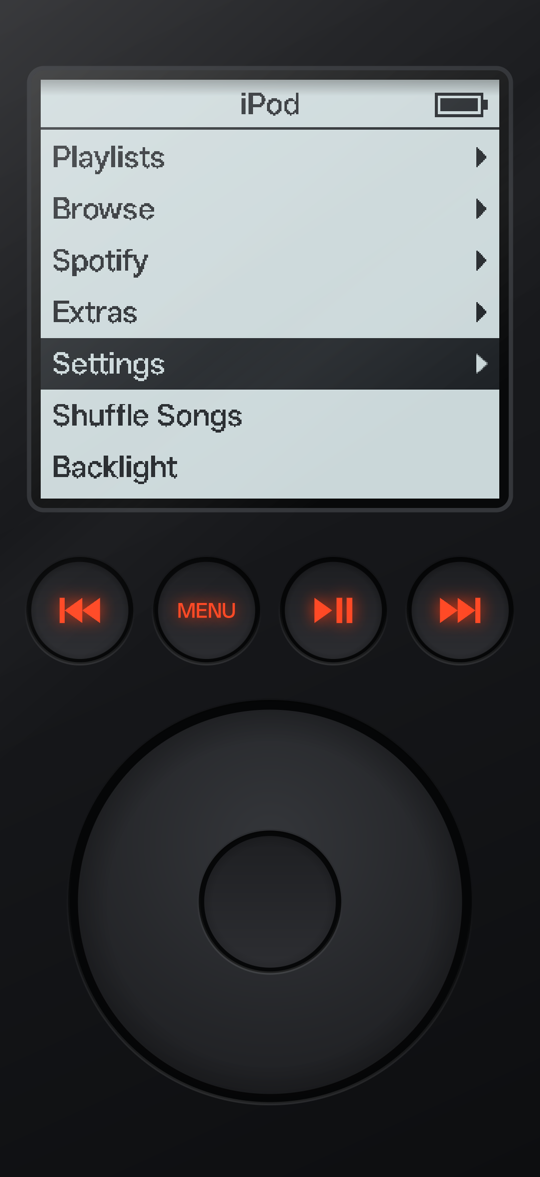
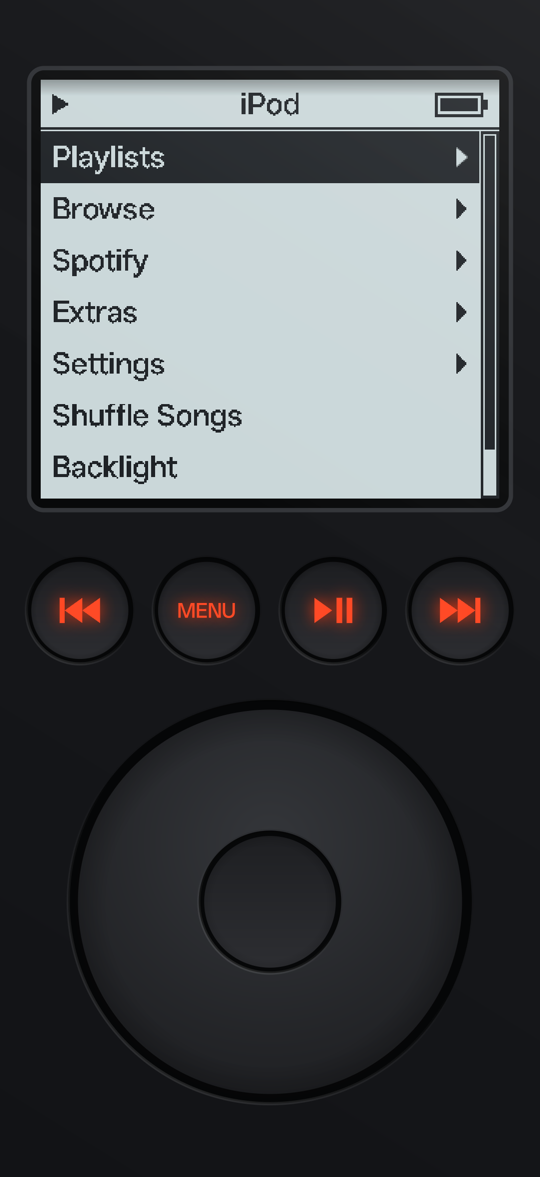
Update the README and screenshots for everything added since [skip ci]
Mentions playing on Sonos, Chromecast and Spotify Connect in the intro
and requirements, describes the light-following shading of the whole
face, fixes the Spotify section that still said music only plays on the
phone, and documents the libraries and build notes. New screenshots of
the main menu, Settings (now with Speakers) and the black finish with
its new lighting.

Changed region(s): [[0.0, 0.0, 0.9481, 0.4282]]

diff --git a/README.md b/README.md
@@ -3,7 +3,7 @@
 A music player for Android that looks and works like the **3rd generation iPod** from 2003.
 It has the grey-blue LCD with its pixel font, the four red-lit touch buttons and the touch wheel,
 under a clear acrylic layer. It plays the music on your phone and, if you like, your Spotify
-library.
+library, on the phone or on your Sonos speakers, Chromecasts and Spotify Connect devices.
 
 <p align="center">
   <img src="docs/screenshots/main-menu.png" width="220" alt="Main menu, white">
@@ -48,8 +48,13 @@ Every push to `main` builds a signed APK with GitHub Actions and publishes it as
 Every build is signed with the same key, so a new release installs over the old one and keeps
 your settings, playlists and Spotify sign-in.
 
-**Requirements:** Android 8.0 or later. The equalizer needs Android 9 or later. Spotify needs the
-Spotify app and Spotify Premium.
+**Requirements:**
+- Android 8.0 or later; the equalizer needs Android 9 or later.
+- Spotify needs the Spotify app and Spotify Premium.
+- Playing on Sonos or Chromecast needs the phone and speaker on the same Wi-Fi; Chromecast also
+  needs Google Play services.
+
+The APK is about 4 MB, mostly Google's Cast libraries.
 
 ---
 
@@ -63,8 +68,11 @@ The whole screen is the front of the iPod, drawn in code and scaled to fit any p
   wheel and the centre button are sunk into holes in it. Each hole's wall casts a soft shadow, and
   its polished edge catches the light. A faint gloss runs across the face.
 - **Light that follows the phone:** the light comes from the ceiling of the room, read from the
-  gravity sensor. Tilt the phone and the shadows and edge highlights swing round, and the gloss
-  slides like a reflection. Lay it flat and the light comes from straight above.
+  gravity sensor. Everything lit is brightest on the side facing it: the shadows and edge
+  highlights in the holes, the shading of the body, the gloss on the acrylic and the reflection on
+  the screen glass. Tilt the phone and they all swing round, with the gloss sliding the other way
+  like a reflection. Lay it flat and the light comes from straight above, so the face looks almost
+  even.
 - **Red-lit buttons:** the four touch buttons glow red while the backlight is on and turn grey
   when it's off.
 - **Two finishes:** the original white, or a black version that never existed. See
@@ -185,11 +193,12 @@ The first load shows songs as they come in.
 
 - Picking a song in a playlist or album plays it there, so the following songs play after it.
   In All Songs and Songs, the next 30 songs from the list are queued after it.
-- The music always comes out of **this phone**, never a computer or speaker on your account.
+- The music comes out of **this phone**, never a computer or speaker that happens to be active on
+  your account, unless you pick one under [Speakers](#speakers).
 - If the Spotify app is asleep, the iPod wakes it in the background with Spotify's App Remote SDK,
   without showing it. Only if that fails does it open Spotify for a second and come back by itself.
-- Now Playing shows "Spotify" in the corner, plus the song, progress, shuffle and repeat. Play/pause,
-  previous, next, volume and scrubbing all work.
+- Now Playing shows "Spotify" in the corner ("Spotify on *speaker*" when it plays elsewhere), plus
+  the song, progress, shuffle and repeat. Play/pause, previous, next, volume and scrubbing all work.
 - Playing your own music again switches back automatically; Spotify pauses when it loses the audio.
 - When you open the iPod while Spotify has a song playing or paused, here or on a speaker, Now
   Playing picks it up.
@@ -238,9 +247,9 @@ there straight away.
   equalizer doesn't apply while playing on a speaker.
 - **Spotify Connect devices:** every speaker, TV, computer or web player on your Spotify account
   shows up by name. Pick one and Spotify's music moves there straight away, playing or paused as it
-  was, and new Spotify songs keep playing there. Now Playing then reads "Spotify on *speaker*", and the wheel sets that
-  speaker's own volume in steps of 5%. If the speaker is switched off, songs play on the phone.
-  This is for Spotify only.
+  was, and new Spotify songs keep playing there. Now Playing then reads "Spotify on *speaker*", and
+  the wheel sets that speaker's own volume in steps of 5%. If the speaker is switched off, songs
+  play on the phone. This is for Spotify only.
 - **Other Outputs:** opens Android's own output switcher for Bluetooth speakers and headphones and
   other outputs your phone supports. This works for everything, including the phone's own music.
 
@@ -322,11 +331,19 @@ app; never use it for the Play Store.
 
 **Version numbers:** the version code is GitHub's run number (`1.0.N`). A local build is version 1
 unless you set `GITHUB_RUN_NUMBER`. Android refuses to install a lower version over a higher one, so
-to test a local build over a release, build with a matching number:
+to test a local build over a release, build with the latest release's number or higher:
 
 ```bash
-GITHUB_RUN_NUMBER=11 ./gradlew assembleRelease
+GITHUB_RUN_NUMBER=18 ./gradlew assembleRelease
 ```
+
+**Libraries:**
+- **Spotify's App Remote SDK** (Apache-2.0) lives in `app/libs/`, taken from
+  [Spotify's GitHub releases](https://github.com/spotify/android-sdk/releases); it needs Gson.
+- **Google's Cast SDK** comes from Google's Maven repository. It's pinned to 22.3.1, because 23.x
+  needs Android Gradle plugin 9.1. It also needs AndroidX, which is switched on in
+  `gradle.properties`.
+- The build prints warnings about Kotlin metadata from the Cast SDK; they're harmless.
 
 ---
 
